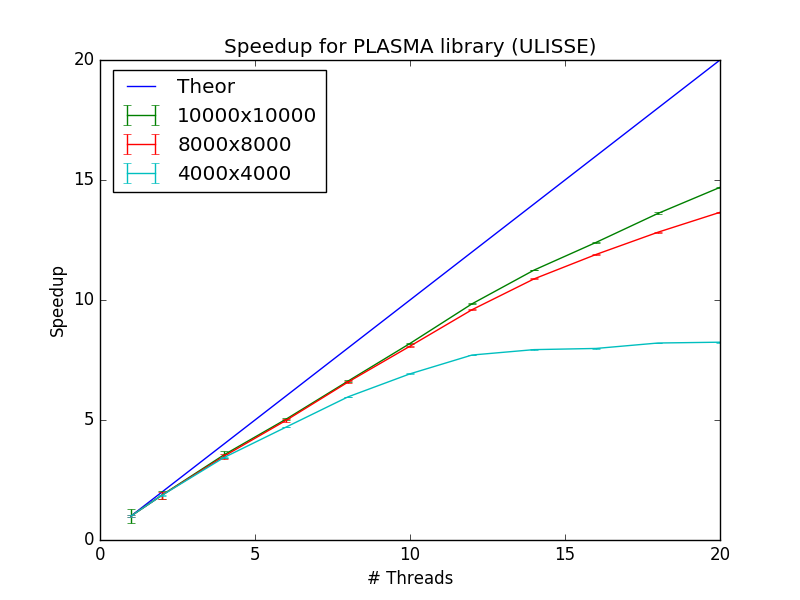
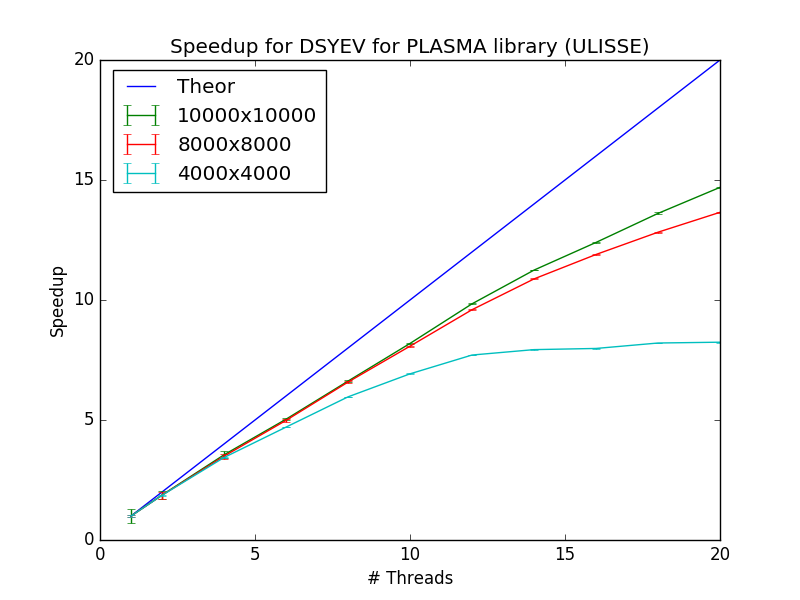
add scaling_10000_elcid.png

Changed region(s): [[0.2188, 0.06, 0.8125, 0.09]]

diff --git a/D2-exercise/provided_code/increasing_size.py b/D2-exercise/provided_code/increasing_size.py
@@ -1,17 +1,18 @@
 import numpy as np
 import matplotlib.pyplot as plt
 
-# data  = np.loadtxt("4000plasma_timing.dat")
-# data2  = np.loadtxt("plasma_timing.safe")
-# data3  = np.loadtxt("10plasma_timing.dat")
-threads = np.loadtxt("plasma_timing.safe")
-size_m = threads[:,0]
+data  = np.loadtxt("4000plasma_timing.dat")
+data2  = np.loadtxt("plasma_timing.safe")
+data3  = np.loadtxt("10plasma_timing.dat")
 
-data = np.loadtxt("4000new_timing.dat")
-data2 = np.loadtxt("scaling_timing.dat")
-data3 = np.loadtxt("10new_timing.dat")
+# threads = np.loadtxt("plasma_timing.safe")
+# size_m = threads[:,0]
 
-# size_m = data[:,0]
+# data = np.loadtxt("4000new_timing.dat")
+# data2 = np.loadtxt("scaling_timing.dat")
+# data3 = np.loadtxt("10new_timing.dat")
+
+size_m = data[:,0]
 sec1   = data[:,1]
 sec2   = data2[:,1]
 sec3   = data3[:,1]
@@ -100,10 +101,11 @@ plt.errorbar(s, speedup3, yerr=err3, label = '10000x10000')
 plt.errorbar(s, speedup2, yerr=err2, label = '8000x8000')
 plt.errorbar(s, speedup1, yerr=err1, label = '4000x4000')
 
-plt.title('Speedup for PLASMA library (ULISSE)')
-plt.title('Speedup for ScaLAPACK library (ULISSE)')
+plt.title('Speedup for DSYEV for PLASMA library (ULISSE)')
+# plt.title('Speedup for DSYEV for ScaLAPACK library (ULISSE)')
 plt.xlabel('# Threads')
 plt.ylabel('Speedup')
 plt.legend(bbox_to_anchor = (.38, 1.))
 # plt.show()
-plt.savefig('scaling_scalapack.png')
+# plt.savefig('scaling_scalapack.png')
+plt.savefig('scaling_plasma.png')

diff --git a/D2-exercise/provided_code/elcid/doplot.py b/D2-exercise/provided_code/elcid/doplot.py
@@ -1,12 +1,11 @@
 import numpy as np
 import matplotlib.pyplot as plt
 
-# data  = np.loadtxt("plasma_timing.safe")
-# ndata = np.loadtxt("scaling_timing.dat")
-# data  = np.loadtxt("4000plasma_timing.dat")
-# ndata = np.loadtxt("4000new_timing.dat")
-data  = np.loadtxt("10plasma_timing.dat")
-ndata = np.loadtxt("10new_timing.dat")
+data  = np.loadtxt("plasma_timing.dat.10000")
+ndata = np.loadtxt("10timing.dat")
+
+# data  = np.loadtxt("plasma_timing.dat18000")
+# ndata = np.loadtxt("timing.dat")
 
 size_m = data[:,0]
 sec    = data[:,1]
@@ -64,14 +63,16 @@ nspeedup = nt[0] / nt
 plt.figure()
 plt.errorbar(s, speedup, yerr=err, label = 'PLASMA')
 plt.errorbar(s, nspeedup, yerr=nerr, label = 'ScaLAPACK')
-plt.plot(s, s, label = 'Teor')
-# plt.title('Speedup for matrix size = 8000 (ULISSE)')
-# plt.title('Speedup for matrix size = 4000 (ULISSE)')
-plt.title('Speedup for matrix size = 10000 (ULISSE)')
+plt.plot(s, s, label = 'Theor')
+plt.title('Speedup for DSYEV for matrix size = 10000 (ELCID)')
+# plt.title('Speedup for matrix size = 18000 (ELCID)')
+
 plt.xlabel('# Threads')
 plt.ylabel('Speedup')
 plt.legend(bbox_to_anchor = (.35, 1.))
+
 # plt.show()
-# plt.savefig('scaling_8000.png')
+
+plt.savefig('scaling_10000_elcid.png')
 # plt.savefig('scaling_4000.png')
-plt.savefig('scaling_10.png')
+# plt.savefig('scaling_10.png')

diff --git a/D2-exercise/provided_code/doplot.py b/D2-exercise/provided_code/doplot.py
@@ -1,12 +1,12 @@
 import numpy as np
 import matplotlib.pyplot as plt
 
-data  = np.loadtxt("plasma_timing.safe")
-ndata = np.loadtxt("scaling_timing.dat")
+# data  = np.loadtxt("plasma_timing.safe")
+# ndata = np.loadtxt("scaling_timing.dat")
 # data  = np.loadtxt("4000plasma_timing.dat")
 # ndata = np.loadtxt("4000new_timing.dat")
-# data  = np.loadtxt("10plasma_timing.dat")
-# ndata = np.loadtxt("10new_timing.dat")
+data  = np.loadtxt("10plasma_timing.dat")
+ndata = np.loadtxt("10new_timing.dat")
 
 size_m = data[:,0]
 sec    = data[:,1]
@@ -65,15 +65,15 @@ plt.figure()
 plt.errorbar(s, speedup, yerr=err, label = 'PLASMA')
 plt.errorbar(s, nspeedup, yerr=nerr, label = 'ScaLAPACK')
 plt.plot(s, s, label = 'Theor')
-plt.title('Speedup for matrix size = 8000 (ULISSE)')
-# plt.title('Speedup for matrix size = 4000 (ULISSE)')
-# plt.title('Speedup for matrix size = 10000 (ULISSE)')
+# plt.title('Speedup for DSYEV for matrix size = 8000 (ULISSE)')
+# plt.title('Speedup for DSYEV for matrix size = 4000 (ULISSE)')
+plt.title('Speedup for DSYEV for matrix size = 10000 (ULISSE)')
 plt.xlabel('# Threads')
 plt.ylabel('Speedup')
 plt.legend(bbox_to_anchor = (.35, 1.))
 
-plt.show()
+# plt.show()
 
 # plt.savefig('scaling_8000.png')
 # plt.savefig('scaling_4000.png')
-# plt.savefig('scaling_10.png')
+plt.savefig('scaling_10.png')
